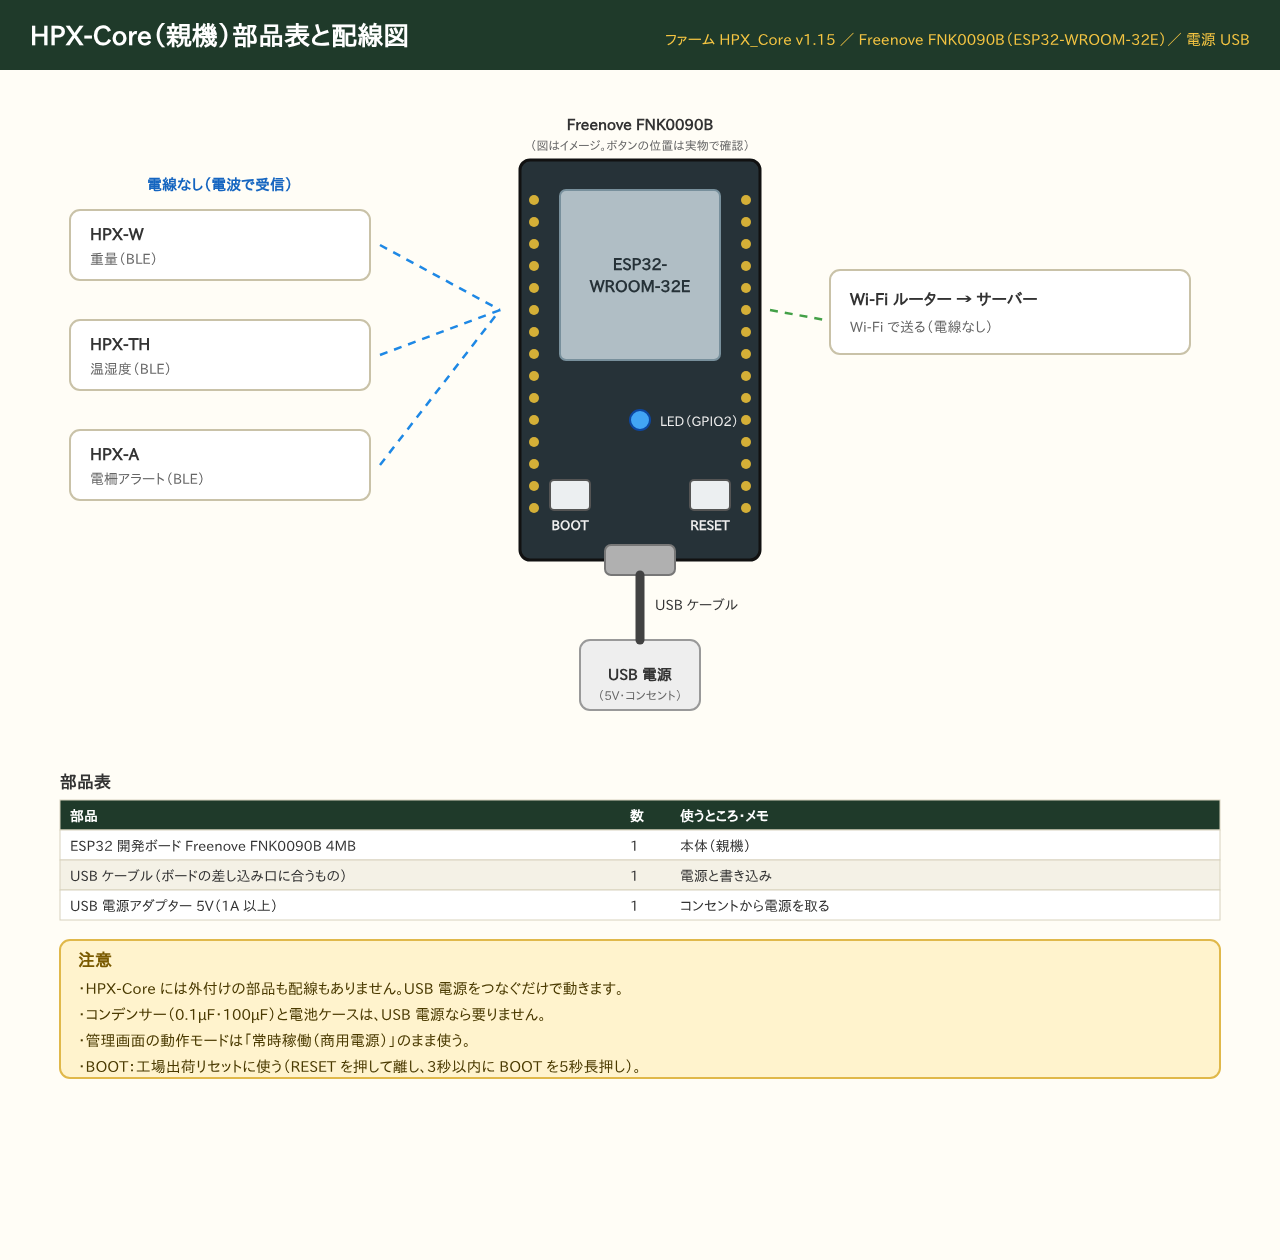
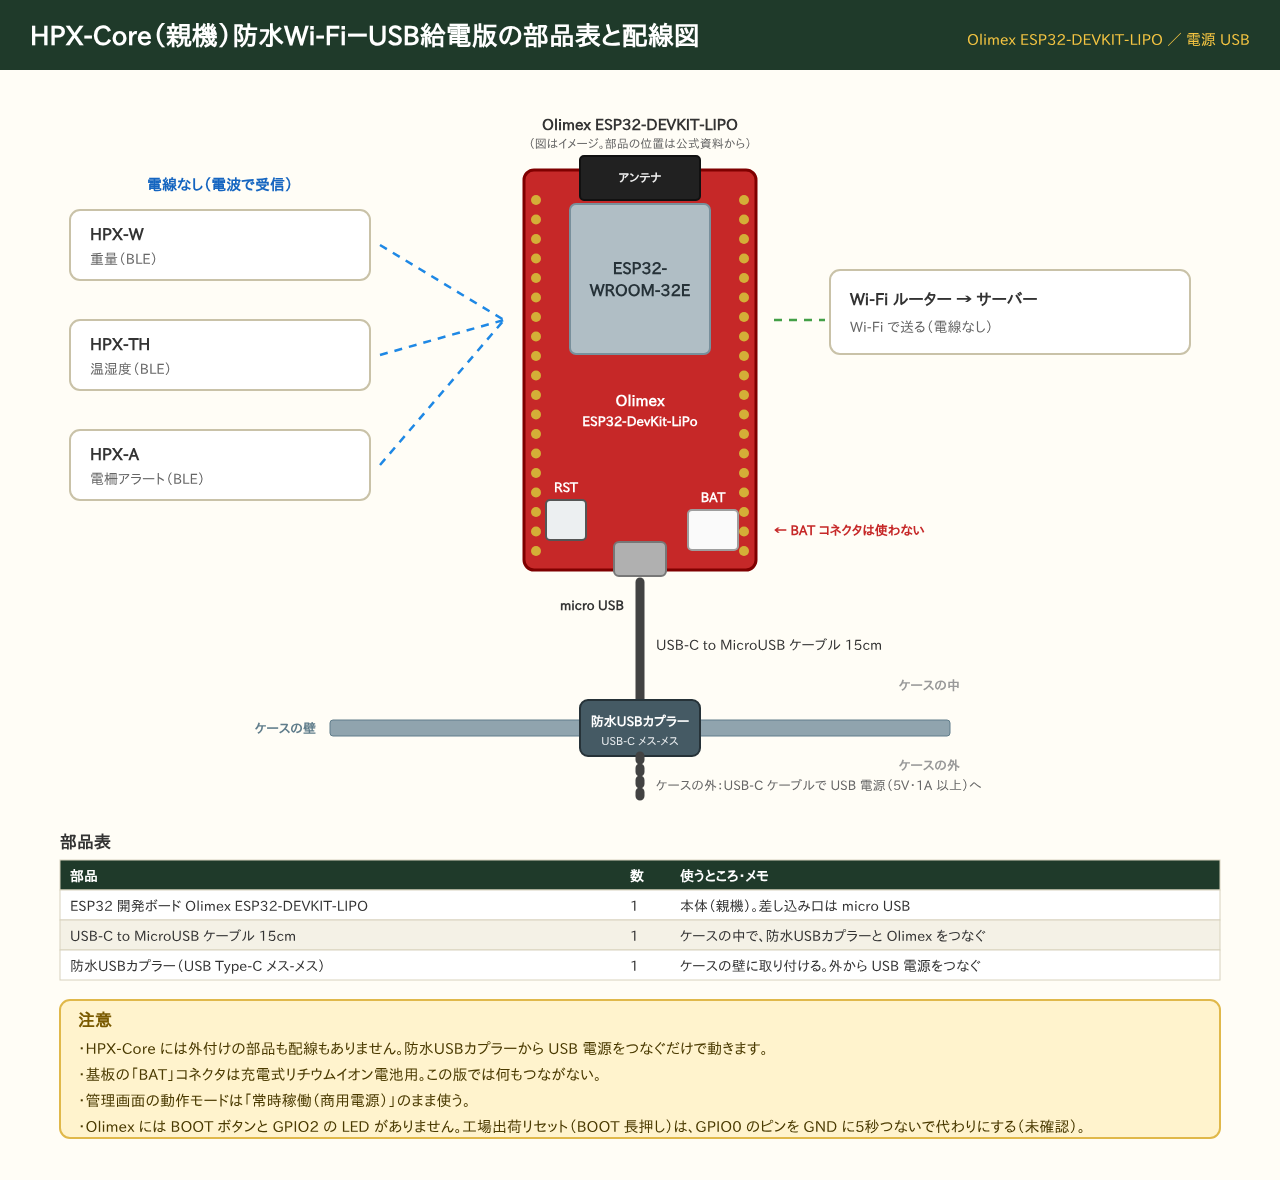
HPX-Core 防水Wi-Fi－USB給電版: 配線図を Olimex ESP32-DEVKIT-LIPO と防水USBカプラーに
Claude-Session: https://claude.ai/code/session_01LCC9B5n55eK33hdr6CPpnq

diff --git a/site/device-core.html b/site/device-core.html
@@ -277,7 +277,7 @@
       <div class="wnote"><h3>注意</h3><ul><li>上の図は部品を載せる面（表）から見たところ。ピンソケットは表から差し、足を裏ではんだ付けする。</li><li>線はすべて裏（はんだ面）で、すずめっき線を穴から穴へはんだ付けしてつなぐ。上の図では点線で透かして描き、下の「裏から見た図」が実際に配線する向き（左右が逆）。</li><li>裏の線どうしは交わらず、ほかのピンの穴の上も通らない。ESP-32・W5500 の下を通る線は、裏なので部品には触れない。</li><li>灰色のピンは使わない（W5500 の NC、もう1本の V、右の列の G 2本）。</li><li>線を交わらせないため、ファームのピンを変えた: MISO＝GPIO4（D4）、INT＝GPIO17（TX2）、RST＝GPIO16（RX2）。HPX_Core v1.20 はこのピンに合わせてある。</li><li>ESP-32 の左右のピン列は10穴、W5500 の左右のピン列は8穴離れているとして描いた（ESP-32 は写真から、W5500 は幅23mm から計算）。差す前に実物で確かめる。</li><li>W5500 のピンがモジュールの上下のどこにあるかは分からないので、ピンを ESP-32 の D4 と同じ 24 行から下に置いた。下の端に合わせたいときは、全部の線を同じ数だけ下へずらせばよい。</li></ul></div>
       </div>
       <figure class="wiring" data-variant="core_wp">
-        <figcaption><b>防水Wi-Fi－USB給電版の配線図</b>USB 電源をつなぐだけで、外付けの配線はありません (図の基板は前の Freenove のイメージです。Olimex ESP32-DEVKIT-LIPO でもつなぎ方は同じです)。</figcaption>
+        <figcaption><b>防水Wi-Fi－USB給電版の配線図</b>ケースの中で Olimex ESP32-DEVKIT-LIPO の micro USB と防水USBカプラーを USB-C to MicroUSB ケーブルでつなぎ、外から USB 電源をつなぎます。外付けの配線はありません。</figcaption>
         <a href="img/wiring/HPX-Core_wiring.png" target="_blank" rel="noopener"><img src="img/wiring/HPX-Core_wiring.png" alt="HPX-Core 防水Wi-Fi－USB給電版の配線図" loading="lazy"></a>
       </figure>
       <figure class="wiring" data-variant="core_bat">

diff --git a/hardware/wiring/gen_wiring.py b/hardware/wiring/gen_wiring.py
@@ -376,28 +376,41 @@ notes(s, 60, y + 20, [
 s.save("HPX-A_wiring.svg")
 
 # ------------------------------------------------------------------ HPX-Core
-s = S(1280, 1260)
-title(s, "HPX-Core（親機）部品表と配線図", "ファーム HPX_Core v1.15 ／ Freenove FNK0090B（ESP32-WROOM-32E）／ 電源 USB")
-cx, cy = 520, 160
-s.rect(cx, cy, 240, 400, "#263238", "#111", 10, 3)
-s.rect(cx + 40, cy + 30, 160, 170, "#b0bec5", "#78909c", 6, 2)
-s.text(cx + 120, cy + 110, "ESP32-", 16, "middle", "bold", "#263238")
-s.text(cx + 120, cy + 132, "WROOM-32E", 16, "middle", "bold", "#263238")
-s.rect(cx + 85, cy + 385, 70, 30, "#b0b0b0", "#777", 6)
-s.rect(cx + 30, cy + 320, 40, 30, "#eceff1", "#555", 4); s.text(cx + 50, cy + 370, "BOOT", 13, "middle", "bold", "#eee")
-s.rect(cx + 170, cy + 320, 40, 30, "#eceff1", "#555", 4); s.text(cx + 190, cy + 370, "RESET", 13, "middle", "bold", "#eee")
-s.add(f'<circle cx="{cx+120}" cy="{cy+260}" r="10" fill="#42a5f5" stroke="#0d47a1" stroke-width="2"/>')
-s.text(cx + 140, cy + 266, "LED（GPIO2）", 13, fill="#eee")
-for i in range(15):
-    s.add(f'<circle cx="{cx+14}" cy="{cy+40+i*22}" r="5" fill="#d4af37"/>')
-    s.add(f'<circle cx="{cx+226}" cy="{cy+40+i*22}" r="5" fill="#d4af37"/>')
-s.text(cx + 120, cy - 30, "Freenove FNK0090B", 15, "middle", "bold")
-s.text(cx + 120, cy - 10, "（図はイメージ。ボタンの位置は実物で確認）", 12, "middle", fill="#666")
-s.rect(cx + 60, 680 - 40, 120, 70, "#eeeeee", "#999", 10, 2)
-s.text(cx + 120, 680, "USB 電源", 15, "middle", "bold")
-s.text(cx + 120, 700, "（5V・コンセント）", 12, "middle", fill="#666")
-s.add(f'<path d="M{cx+120},{cy+415} L{cx+120},640" stroke="#424242" stroke-width="9" stroke-linecap="round"/>')
-s.text(cx + 135, 610, "USB ケーブル", 14, fill="#333")
+# 防水Wi-Fi－USB給電版 (TARO 2026-11-08: 基板を Olimex ESP32-DEVKIT-LIPO に、電源は防水USBカプラーから)
+# Olimex の部品の位置は公式資料 (GitHub OLIMEX/ESP32-DevKit-LiPo Rev.D) から: アンテナが上、micro USB が下、
+# RST ボタンが左下、BAT コネクタが右下。BOOT ボタンと GPIO2 の LED はない。
+s = S(1280, 1180)
+title(s, "HPX-Core（親機）防水Wi-Fi－USB給電版の部品表と配線図", "Olimex ESP32-DEVKIT-LIPO ／ 電源 USB")
+cx, cy = 524, 170
+s.rect(cx, cy, 232, 400, "#c62828", "#7f0000", 10, 3)
+s.rect(cx + 56, cy - 14, 120, 44, "#212121", "#111", 4, 2)
+s.text(cx + 116, cy + 12, "アンテナ", 12, "middle", "bold", "#eee")
+s.rect(cx + 46, cy + 34, 140, 150, "#b0bec5", "#78909c", 6, 2)
+s.text(cx + 116, cy + 104, "ESP32-", 16, "middle", "bold", "#263238")
+s.text(cx + 116, cy + 126, "WROOM-32E", 16, "middle", "bold", "#263238")
+s.text(cx + 116, cy + 236, "Olimex", 15, "middle", "bold", "#fff")
+s.text(cx + 116, cy + 256, "ESP32-DevKit-LiPo", 13, "middle", "bold", "#fff")
+s.rect(cx + 90, cy + 372, 52, 34, "#b0b0b0", "#777", 5)          # micro USB
+s.rect(cx + 22, cy + 330, 40, 40, "#eceff1", "#555", 4); s.text(cx + 42, cy + 322, "RST", 13, "middle", "bold", "#fff")
+s.rect(cx + 164, cy + 340, 50, 40, "#fafafa", "#9e9e9e", 4); s.text(cx + 189, cy + 332, "BAT", 13, "middle", "bold", "#fff")
+for i in range(19):
+    s.add(f'<circle cx="{cx+12}" cy="{cy+30+i*19.5}" r="5" fill="#d4af37"/>')
+    s.add(f'<circle cx="{cx+220}" cy="{cy+30+i*19.5}" r="5" fill="#d4af37"/>')
+s.text(cx + 116, cy - 40, "Olimex ESP32-DEVKIT-LIPO", 15, "middle", "bold")
+s.text(cx + 116, cy - 22, "（図はイメージ。部品の位置は公式資料から）", 12, "middle", fill="#666")
+s.text(cx + 250, cy + 365, "← BAT コネクタは使わない", 13, fill="#c62828", weight="bold")
+s.text(cx + 100, cy + 440, "micro USB", 13, "end", "bold", "#333")
+# ケーブル → 防水USBカプラー（ケースの壁）→ 外の USB 電源
+s.add(f'<path d="M{cx+116},{cy+412} L{cx+116},700" stroke="#424242" stroke-width="9" stroke-linecap="round"/>')
+s.text(cx + 132, 650, "USB-C to MicroUSB ケーブル 15cm", 14, fill="#333")
+s.rect(330, 720, 620, 16, "#90a4ae", "#607d8b", 3, 1)
+s.text(316, 733, "ケースの壁", 13, "end", "bold", "#607d8b")
+s.rect(cx + 56, 700, 120, 56, "#455a64", "#263238", 8, 2)
+s.text(cx + 116, 726, "防水USBカプラー", 13, "middle", "bold", "#fff")
+s.text(cx + 116, 745, "USB-C メス-メス", 11, "middle", fill="#eceff1")
+s.add(f'<path d="M{cx+116},756 L{cx+116},800" stroke="#424242" stroke-width="9" stroke-linecap="round" stroke-dasharray="4 8"/>')
+s.text(cx + 132, 790, "ケースの外：USB-C ケーブルで USB 電源（5V・1A 以上）へ", 13, fill="#666")
+s.text(960, 690, "ケースの中", 13, "end", "bold", "#999"); s.text(960, 770, "ケースの外", 13, "end", "bold", "#999")
 for i, (n, d) in enumerate([("HPX-W", "重量（BLE）"), ("HPX-TH", "温湿度（BLE）"), ("HPX-A", "電柵アラート（BLE）")]):
     yy = 210 + i * 110
     s.rect(70, yy, 300, 70, "#ffffff", "#c9c2a8", 10, 2)
@@ -408,17 +421,17 @@ s.rect(830, 270, 360, 84, "#ffffff", "#c9c2a8", 10, 2)
 s.text(850, 305, "Wi-Fi ルーター → サーバー", 16, weight="bold")
 s.text(850, 332, "Wi-Fi で送る（電線なし）", 14, fill="#666")
 s.add(f'<path d="M{cx+250},{cy+150} L825,320" stroke="#43a047" stroke-width="2.5" stroke-dasharray="8 7" fill="none"/>')
-y = table(s, 60, 800, [
+y = table(s, 60, 860, [
     ["部品", "数", "使うところ・メモ"],
-    ["ESP32 開発ボード Freenove FNK0090B 4MB", "1", "本体（親機）"],
-    ["USB ケーブル（ボードの差し込み口に合うもの）", "1", "電源と書き込み"],
-    ["USB 電源アダプター 5V（1A 以上）", "1", "コンセントから電源を取る"],
+    ["ESP32 開発ボード Olimex ESP32-DEVKIT-LIPO", "1", "本体（親機）。差し込み口は micro USB"],
+    ["USB-C to MicroUSB ケーブル 15cm", "1", "ケースの中で、防水USBカプラーと Olimex をつなぐ"],
+    ["防水USBカプラー（USB Type-C メス-メス）", "1", "ケースの壁に取り付ける。外から USB 電源をつなぐ"],
 ], [560, 50, 550], "部品表")
 notes(s, 60, y + 20, [
-    "・HPX-Core には外付けの部品も配線もありません。USB 電源をつなぐだけで動きます。",
-    "・コンデンサー（0.1µF・100µF）と電池ケースは、USB 電源なら要りません。",
+    "・HPX-Core には外付けの部品も配線もありません。防水USBカプラーから USB 電源をつなぐだけで動きます。",
+    "・基板の「BAT」コネクタは充電式リチウムイオン電池用。この版では何もつながない。",
     "・管理画面の動作モードは「常時稼働（商用電源）」のまま使う。",
-    "・BOOT：工場出荷リセットに使う（RESET を押して離し、3秒以内に BOOT を5秒長押し）。",
+    "・Olimex には BOOT ボタンと GPIO2 の LED がありません。工場出荷リセット（BOOT 長押し）は、GPIO0 のピンを GND に5秒つないで代わりにする（未確認）。",
 ])
 s.save("HPX-Core_wiring.svg")
 print("ok")

diff --git a/hardware/parts/gen_device_pages.py b/hardware/parts/gen_device_pages.py
@@ -21,7 +21,7 @@ DEVICES = [
          cats=['チップボード', '電子部品', '電源', 'ケース', 'ケース用基板', '部材', 'ケーブル'],
          no_cost_note=True,   # 部品代の目安の説明文を出さない (TARO 2026-11-06)
          wiring=[('HPX-Core_LAN_pcb.png', '有線LAN版の配線図', 'ESP32 と有線LANモジュール W5500 を 6×8cm のユニバーサル基板に並べて差す図です (表と裏、線はすべて裏)。ファームウェアは v1.20 以降を使います。', 'core'),
-                ('HPX-Core_wiring.png', '防水Wi-Fi－USB給電版の配線図', 'USB 電源をつなぐだけで、外付けの配線はありません (図の基板は前の Freenove のイメージです。Olimex ESP32-DEVKIT-LIPO でもつなぎ方は同じです)。', 'core_wp'),
+                ('HPX-Core_wiring.png', '防水Wi-Fi－USB給電版の配線図', 'ケースの中で Olimex ESP32-DEVKIT-LIPO の micro USB と防水USBカプラーを USB-C to MicroUSB ケーブルでつなぎ、外から USB 電源をつなぎます。外付けの配線はありません。', 'core_wp'),
                 ('HPX-Core_BAT_pcb.png', '防水Wi-Fi－電池版の配線図', 'ケース用基板 PCB36-47 に Olimex ESP32-DEVKIT-LIPO をピンソケットで差し、ケース WH145-25-M3 の電池ボックス (単三リチウム3本、約4.5〜5.4V) の線を Olimex の 5V 端子と GND へつなぎます (表と裏、線は裏の2本だけ)。基板の「BAT」コネクタは充電式リチウムイオン電池用なので、乾電池はつながないでください。管理画面の動作モードは「ディープスリープ」にします。', 'core_bat')],
          note='LAN ケーブルでルーターにつなぐ有線LAN版と、屋外に置けて Wi-Fi でつなぐ防水Wi-Fi版 (USB給電版・電池版) があります。'),
     dict(key='w', file='device-w.html', tag='重量', name='HPX-W',

diff --git a/hardware/wiring/README.md b/hardware/wiring/README.md
@@ -9,7 +9,7 @@
 | HPX-W (重量) | [HPX-W_pcb.png](HPX-W_pcb.png) | HX711 DT=D0, SCK=D1 (HPX_WeightNode v1.01)。電源 CR123A |
 | HPX-TH (温湿度) | [HPX-TH_pcb.png](HPX-TH_pcb.png) | SHT40 (SDA=D4, SCL=D5、ピンは上から SDA・SCL・GND・VIN) + サーミスター (D3 → 10kΩ → A2、A2–GND)。電源 CR123A |
 | HPX-A (電柵アラート) | [HPX-A_pcb.png](HPX-A_pcb.png) | D1 → 10kΩ → D0(A0)、CdS セル D0–GND (HPX_Alert v1.03)。電源 単3リチウム×2 (ケース WH145-25-M2 の電池ボックス) |
-| HPX-Core (親機) | [HPX-Core_wiring.png](HPX-Core_wiring.png) | 外付けの配線なし。USB 電源 (HPX_Core v1.15) |
+| HPX-Core 防水Wi-Fi－USB給電版 | [HPX-Core_wiring.png](HPX-Core_wiring.png) | Olimex ESP32-DEVKIT-LIPO。外付けの配線なし。防水USBカプラー (USB-C) から USB-C to MicroUSB ケーブルで給電 |
 | HPX-Core 有線LAN (付けたいときだけ) | [HPX-Core_LAN_pcb.png](HPX-Core_LAN_pcb.png) (6×8cm 基板に組む図)・[HPX-Core_LAN_wiring.png](HPX-Core_LAN_wiring.png) (線の対応) | ELEGOO ESP-32 + W5500 (ACEIRMC): SCK=D18, MI=D4, MO=D23, CS=D5, INT=TX2(GPIO17), RST=RX2(GPIO16), V=3V3, G=GND (HPX_Core v1.20 以降、接続方法を「有線LAN」に)。USB 電源 |
 | HPX-Core 防水Wi-Fi－電池版 | [HPX-Core_BAT_pcb.png](HPX-Core_BAT_pcb.png) (ケース用基板 PCB36-47 に組む図) | Olimex ESP32-DEVKIT-LIPO の 5V (左の列のピン19) ← 単三リチウム×3 の＋、GND (左の列のピン14) ← −。BAT コネクタは使わない。動作モードはディープスリープ |
 
